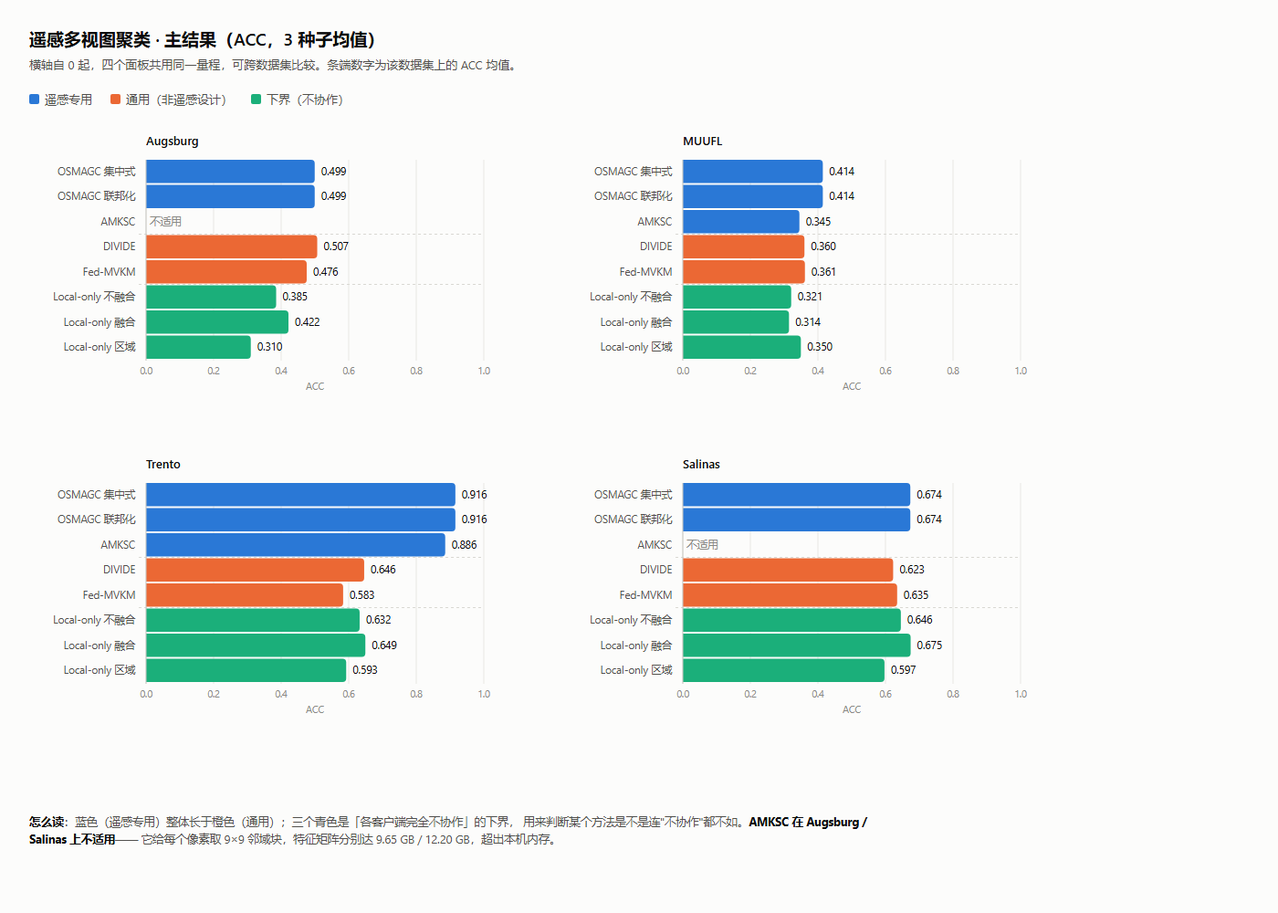
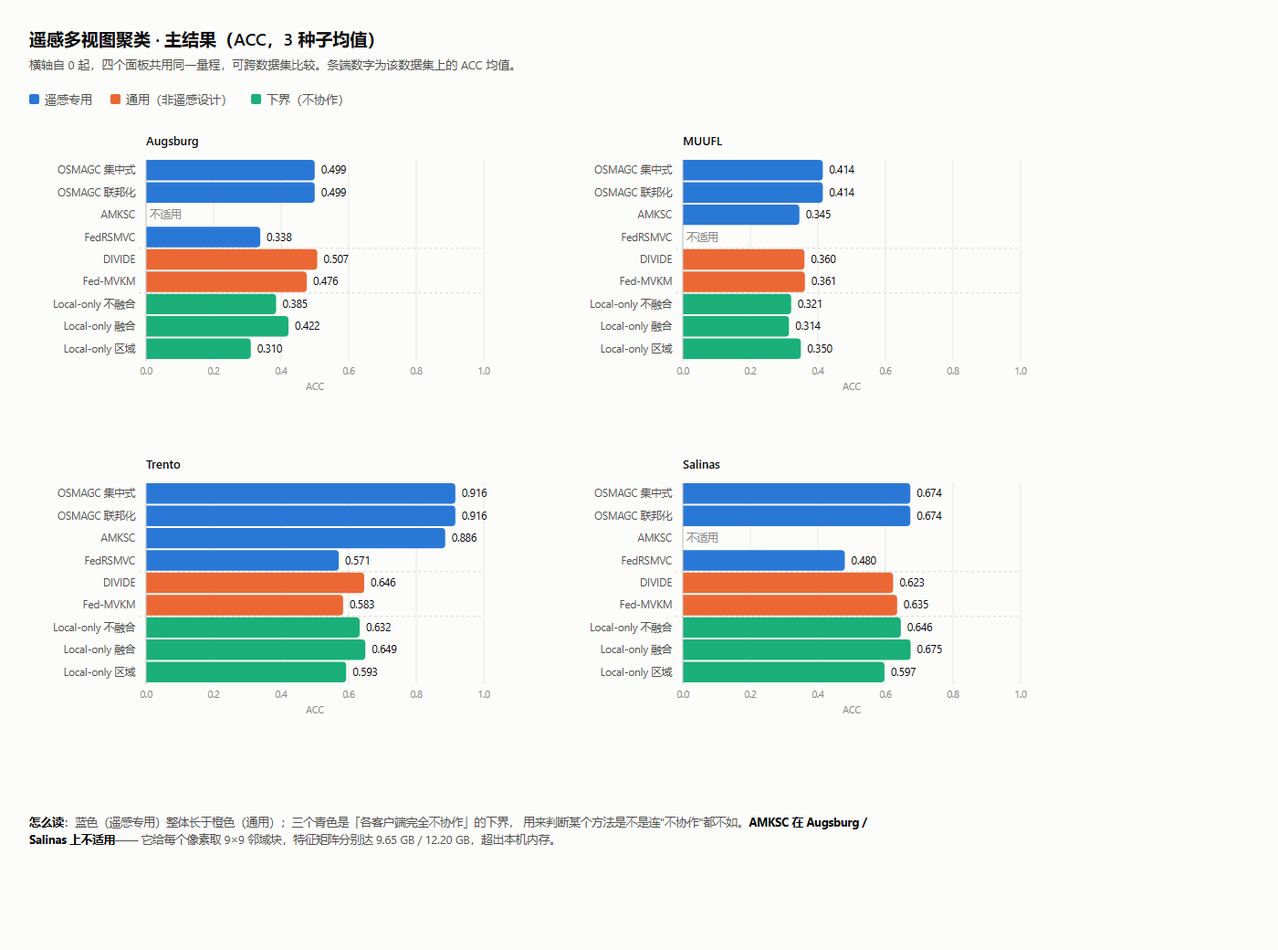
FedRSMVC 9/9 完成，进入主表；发现它是「超像素级」评测口径
去重后 108 条，9 方法 × 4 数据集。ACC 主表新增 FedRSMVC：
  Augsburg 0.3381±0.0324 | Trento 0.5706±0.0844 | Salinas 0.4796±0.0320 | MUUFL 不适用

⚠ 关键发现（必须写进论文）：
FedRSMVC 在三个数据集上都是已发表方法里最低的，甚至低于部分下界。但原因不是「方法差」，
而是**评测粒度不同**：
  - dataset.py:72  `self.y = get_sp_labels(sp_labels, gt)` → 每个超像素一个标签
  - Flsimulator 把这个**超像素级**真值直接喂给 full_metric
  - 即它自报的 Augsburg OA=0.7053 是「3,836 个超像素里判对多少」
  - 而平台按统一协议要求「每像素一个标签」，适配器 broadcast 回像素后重算 = 0.3381
两个口径不是同一个量（判对均质区域 vs 判对每个像素）。论文里必须注明，
否则读者会拿 0.7053 直接和别人的像素级数字比。

报告结论段已补入这一段，并附图（9 方法 × 4 数据集）。

另：清理了 FedRSMVC 写入本目录的 14 GB 检查点（已加 .gitignore），
平台目录现在 38 MB（.git 30 MB）。

diff --git a/results/figures/accuracy_by_dataset.html b/results/figures/accuracy_by_dataset.html
@@ -45,7 +45,7 @@
 <div class="legend"><span class="lg"><i style="background:#2a78d6"></i>遥感专用</span><span class="lg"><i style="background:#eb6834"></i>通用（非遥感设计）</span><span class="lg"><i style="background:#1baf7a"></i>下界（不协作）</span></div>
 <svg width="1296" height="746" viewBox="0 0 1296 746" role="img"
      aria-label="四个遥感数据集上各方法的 ACC 横向条形对比">
-<g class="panel" transform="translate(128,46)">  <text class="ds-title" x="0" y="-16">Augsburg</text>  <line class="grid" x1="0.00" y1="0" x2="0.00" y2="220.00"/>  <text class="tick" x="0.00" y="235">0.0</text>  <line class="grid" x1="74.00" y1="0" x2="74.00" y2="220.00"/>  <text class="tick" x="74.00" y="235">0.2</text>  <line class="grid" x1="148.00" y1="0" x2="148.00" y2="220.00"/>  <text class="tick" x="148.00" y="235">0.4</text>  <line class="grid" x1="222.00" y1="0" x2="222.00" y2="220.00"/>  <text class="tick" x="222.00" y="235">0.6</text>  <line class="grid" x1="296.00" y1="0" x2="296.00" y2="220.00"/>  <text class="tick" x="296.00" y="235">0.8</text>  <line class="grid" x1="370.00" y1="0" x2="370.00" y2="220.00"/>  <text class="tick" x="370.00" y="235">1.0</text>  <text class="mlabel" x="-12" y="16.75">OSMAGC 集中式</text>  <path class="bar" d="M0.00,0.00 H180.76 A4.00,4.00 0 0 1 184.76,4.00 V21.50 A4.00,4.00 0 0 1 180.76,25.50 H0.00 Z" fill="#2a78d6"/>  <text class="val" x="191.76" y="16.75">0.499</text>  <rect class="hit" x="0" y="0.00" width="370.00" height="25.50" data-d="Augsburg" data-m="OSMAGC 集中式" data-v="0.4994" data-s="0.0025" data-n="3"/>  <text class="mlabel" x="-12" y="44.25">OSMAGC 联邦化</text>  <path class="bar" d="M0.00,27.50 H180.76 A4.00,4.00 0 0 1 184.76,31.50 V49.00 A4.00,4.00 0 0 1 180.76,53.00 H0.00 Z" fill="#2a78d6"/>  <text class="val" x="191.76" y="44.25">0.499</text>  <rect class="hit" x="0" y="27.50" width="370.00" height="25.50" data-d="Augsburg" data-m="OSMAGC 联邦化" data-v="0.4994" data-s="0.0025" data-n="3"/>  <text class="mlabel" x="-12" y="71.75">AMKSC</text>  <text class="na" x="4" y="71.75">不适用</text>  <line class="sep" x1="-8" y1="81.50" x2="370.00" y2="81.50"/>  <text class="mlabel" x="-12" y="99.25">DIVIDE</text>  <path class="bar" d="M0.00,82.50 H183.52 A4.00,4.00 0 0 1 187.52,86.50 V104.00 A4.00,4.00 0 0 1 183.52,108.00 H0.00 Z" fill="#eb6834"/>  <text class="val" x="194.52" y="99.25">0.507</text>  <rect class="hit" x="0" y="82.50" width="370.00" height="25.50" data-d="Augsburg" data-m="DIVIDE" data-v="0.5068" data-s="0.0175" data-n="3"/>  <text class="mlabel" x="-12" y="126.75">Fed-MVKM</text>  <path class="bar" d="M0.00,110.00 H171.99 A4.00,4.00 0 0 1 175.99,114.00 V131.50 A4.00,4.00 0 0 1 171.99,135.50 H0.00 Z" fill="#eb6834"/>  <text class="val" x="182.99" y="126.75">0.476</text>  <rect class="hit" x="0" y="110.00" width="370.00" height="25.50" data-d="Augsburg" data-m="Fed-MVKM" data-v="0.4756" data-s="0.0449" data-n="3"/>  <line class="sep" x1="-8" y1="136.50" x2="370.00" y2="136.50"/>  <text class="mlabel" x="-12" y="154.25">Local-only 不融合</text>  <path class="bar" d="M0.00,137.50 H138.52 A4.00,4.00 0 0 1 142.52,141.50 V159.00 A4.00,4.00 0 0 1 138.52,163.00 H0.00 Z" fill="#1baf7a"/>  <text class="val" x="149.52" y="154.25">0.385</text>  <rect class="hit" x="0" y="137.50" width="370.00" height="25.50" data-d="Augsburg" data-m="Local-only 不融合" data-v="0.3852" data-s="0.0065" data-n="3"/>  <text class="mlabel" x="-12" y="181.75">Local-only 融合</text>  <path class="bar" d="M0.00,165.00 H152.00 A4.00,4.00 0 0 1 156.00,169.00 V186.50 A4.00,4.00 0 0 1 152.00,190.50 H0.00 Z" fill="#1baf7a"/>  <text class="val" x="163.00" y="181.75">0.422</text>  <rect class="hit" x="0" y="165.00" width="370.00" height="25.50" data-d="Augsburg" data-m="Local-only 融合" data-v="0.4216" data-s="0.0258" data-n="3"/>  <text class="mlabel" x="-12" y="209.25">Local-only 区域</text>  <path class="bar" d="M0.00,192.50 H110.72 A4.00,4.00 0 0 1 114.72,196.50 V214.00 A4.00,4.00 0 0 1 110.72,218.00 H0.00 Z" fill="#1baf7a"/>  <text class="val" x="121.72" y="209.25">0.310</text>  <rect class="hit" x="0" y="192.50" width="370.00" height="25.50" data-d="Augsburg" data-m="Local-only 区域" data-v="0.3100" data-s="0.0231" data-n="3"/>  <line class="axis" x1="0" y1="0" x2="0" y2="220.00"/>  <text class="xlab" x="185" y="252">ACC</text></g><g class="panel" transform="translate(716,46)">  <text class="ds-title" x="0" y="-16">MUUFL</text>  <line class="grid" x1="0.00" y1="0" x2="0.00" y2="220.00"/>  <text class="tick" x="0.00" y="235">0.0</text>  <line class="grid" x1="74.00" y1="0" x2="74.00" y2="220.00"/>  <text class="tick" x="74.00" y="235">0.2</text>  <line class="grid" x1="148.00" y1="0" x2="148.00" y2="220.00"/>  <text class="tick" x="148.00" y="235">0.4</text>  <line class="grid" x1="222.00" y1="0" x2="222.00" y2="220.00"/>  <text class="tick" x="222.00" y="235">0.6</text>  <line class="grid" x1="296.00" y1="0" x2="296.00" y2="220.00"/>  <text class="tick" x="296.00" y="235">0.8</text>  <line class="grid" x1="370.00" y1="0" x2="370.00" y2="220.00"/>  <text class="tick" x="370.00" y="235">1.0</text>  <text class="mlabel" x="-12" y="16.75">OSMAGC 集中式</text>  <path class="bar" d="M0.00,0.00 H149.36 A4.00,4.00 0 0 1 153.36,4.00 V21.50 A4.00,4.00 0 0 1 149.36,25.50 H0.00 Z" fill="#2a78d6"/>  <text class="val" x="160.36" y="16.75">0.414</text>  <rect class="hit" x="0" y="0.00" width="370.00" height="25.50" data-d="MUUFL" data-m="OSMAGC 集中式" data-v="0.4145" data-s="0.0001" data-n="3"/>  <text class="mlabel" x="-12" y="44.25">OSMAGC 联邦化</text>  <path class="bar" d="M0.00,27.50 H149.36 A4.00,4.00 0 0 1 153.36,31.50 V49.00 A4.00,4.00 0 0 1 149.36,53.00 H0.00 Z" fill="#2a78d6"/>  <text class="val" x="160.36" y="44.25">0.414</text>  <rect class="hit" x="0" y="27.50" width="370.00" height="25.50" data-d="MUUFL" data-m="OSMAGC 联邦化" data-v="0.4145" data-s="0.0001" data-n="3"/>  <text class="mlabel" x="-12" y="71.75">AMKSC</text>  <path class="bar" d="M0.00,55.00 H123.72 A4.00,4.00 0 0 1 127.72,59.00 V76.50 A4.00,4.00 0 0 1 123.72,80.50 H0.00 Z" fill="#2a78d6"/>  <text class="val" x="134.72" y="71.75">0.345</text>  <rect class="hit" x="0" y="55.00" width="370.00" height="25.50" data-d="MUUFL" data-m="AMKSC" data-v="0.3452" data-s="0.0192" data-n="3"/>  <line class="sep" x1="-8" y1="81.50" x2="370.00" y2="81.50"/>  <text class="mlabel" x="-12" y="99.25">DIVIDE</text>  <path class="bar" d="M0.00,82.50 H129.23 A4.00,4.00 0 0 1 133.23,86.50 V104.00 A4.00,4.00 0 0 1 129.23,108.00 H0.00 Z" fill="#eb6834"/>  <text class="val" x="140.23" y="99.25">0.360</text>  <rect class="hit" x="0" y="82.50" width="370.00" height="25.50" data-d="MUUFL" data-m="DIVIDE" data-v="0.3601" data-s="0.0116" data-n="3"/>  <text class="mlabel" x="-12" y="126.75">Fed-MVKM</text>  <path class="bar" d="M0.00,110.00 H129.75 A4.00,4.00 0 0 1 133.75,114.00 V131.50 A4.00,4.00 0 0 1 129.75,135.50 H0.00 Z" fill="#eb6834"/>  <text class="val" x="140.75" y="126.75">0.361</text>  <rect class="hit" x="0" y="110.00" width="370.00" height="25.50" data-d="MUUFL" data-m="Fed-MVKM" data-v="0.3615" data-s="0.0094" data-n="3"/>  <line class="sep" x1="-8" y1="136.50" x2="370.00" y2="136.50"/>  <text class="mlabel" x="-12" y="154.25">Local-only 不融合</text>  <path class="bar" d="M0.00,137.50 H114.72 A4.00,4.00 0 0 1 118.72,141.50 V159.00 A4.00,4.00 0 0 1 114.72,163.00 H0.00 Z" fill="#1baf7a"/>  <text class="val" x="125.72" y="154.25">0.321</text>  <rect class="hit" x="0" y="137.50" width="370.00" height="25.50" data-d="MUUFL" data-m="Local-only 不融合" data-v="0.3209" data-s="0.0028" data-n="3"/>  <text class="mlabel" x="-12" y="181.75">Local-only 融合</text>  <path class="bar" d="M0.00,165.00 H112.31 A4.00,4.00 0 0 1 116.31,169.00 V186.50 A4.00,4.00 0 0 1 112.31,190.50 H0.00 Z" fill="#1baf7a"/>  <text class="val" x="123.31" y="181.75">0.314</text>  <rect class="hit" x="0" y="165.00" width="370.00" height="25.50" data-d="MUUFL" data-m="Local-only 融合" data-v="0.3144" data-s="0.0063" data-n="3"/>  <text class="mlabel" x="-12" y="209.25">Local-only 区域</text>  <path class="bar" d="M0.00,192.50 H125.32 A4.00,4.00 0 0 1 129.32,196.50 V214.00 A4.00,4.00 0 0 1 125.32,218.00 H0.00 Z" fill="#1baf7a"/>  <text class="val" x="136.32" y="209.25">0.350</text>  <rect class="hit" x="0" y="192.50" width="370.00" height="25.50" data-d="MUUFL" data-m="Local-only 区域" data-v="0.3495" data-s="0.0162" data-n="3"/>  <line class="axis" x1="0" y1="0" x2="0" y2="220.00"/>  <text class="xlab" x="185" y="252">ACC</text></g><g class="panel" transform="translate(128,400)">  <text class="ds-title" x="0" y="-16">Trento</text>  <line class="grid" x1="0.00" y1="0" x2="0.00" y2="220.00"/>  <text class="tick" x="0.00" y="235">0.0</text>  <line class="grid" x1="74.00" y1="0" x2="74.00" y2="220.00"/>  <text class="tick" x="74.00" y="235">0.2</text>  <line class="grid" x1="148.00" y1="0" x2="148.00" y2="220.00"/>  <text class="tick" x="148.00" y="235">0.4</text>  <line class="grid" x1="222.00" y1="0" x2="222.00" y2="220.00"/>  <text class="tick" x="222.00" y="235">0.6</text>  <line class="grid" x1="296.00" y1="0" x2="296.00" y2="220.00"/>  <text class="tick" x="296.00" y="235">0.8</text>  <line class="grid" x1="370.00" y1="0" x2="370.00" y2="220.00"/>  <text class="tick" x="370.00" y="235">1.0</text>  <text class="mlabel" x="-12" y="16.75">OSMAGC 集中式</text>  <path class="bar" d="M0.00,0.00 H334.85 A4.00,4.00 0 0 1 338.85,4.00 V21.50 A4.00,4.00 0 0 1 334.85,25.50 H0.00 Z" fill="#2a78d6"/>  <text class="val" x="345.85" y="16.75">0.916</text>  <rect class="hit" x="0" y="0.00" width="370.00" height="25.50" data-d="Trento" data-m="OSMAGC 集中式" data-v="0.9158" data-s="0.0000" data-n="3"/>  <text class="mlabel" x="-12" y="44.25">OSMAGC 联邦化</text>  <path class="bar" d="M0.00,27.50 H334.85 A4.00,4.00 0 0 1 338.85,31.50 V49.00 A4.00,4.00 0 0 1 334.85,53.00 H0.00 Z" fill="#2a78d6"/>  <text class="val" x="345.85" y="44.25">0.916</text>  <rect class="hit" x="0" y="27.50" width="370.00" height="25.50" data-d="Trento" data-m="OSMAGC 联邦化" data-v="0.9158" data-s="0.0000" data-n="3"/>  <text class="mlabel" x="-12" y="71.75">AMKSC</text>  <path class="bar" d="M0.00,55.00 H323.72 A4.00,4.00 0 0 1 327.72,59.00 V76.50 A4.00,4.00 0 0 1 323.72,80.50 H0.00 Z" fill="#2a78d6"/>  <text class="val" x="334.72" y="71.75">0.886</text>  <rect class="hit" x="0" y="55.00" width="370.00" height="25.50" data-d="Trento" data-m="AMKSC" data-v="0.8857" data-s="0.0536" data-n="3"/>  <line class="sep" x1="-8" y1="81.50" x2="370.00" y2="81.50"/>  <text class="mlabel" x="-12" y="99.25">DIVIDE</text>  <path class="bar" d="M0.00,82.50 H234.94 A4.00,4.00 0 0 1 238.94,86.50 V104.00 A4.00,4.00 0 0 1 234.94,108.00 H0.00 Z" fill="#eb6834"/>  <text class="val" x="245.94" y="99.25">0.646</text>  <rect class="hit" x="0" y="82.50" width="370.00" height="25.50" data-d="Trento" data-m="DIVIDE" data-v="0.6458" data-s="0.0059" data-n="3"/>  <text class="mlabel" x="-12" y="126.75">Fed-MVKM</text>  <path class="bar" d="M0.00,110.00 H211.88 A4.00,4.00 0 0 1 215.88,114.00 V131.50 A4.00,4.00 0 0 1 211.88,135.50 H0.00 Z" fill="#eb6834"/>  <text class="val" x="222.88" y="126.75">0.583</text>  <rect class="hit" x="0" y="110.00" width="370.00" height="25.50" data-d="Trento" data-m="Fed-MVKM" data-v="0.5834" data-s="0.0000" data-n="3"/>  <line class="sep" x1="-8" y1="136.50" x2="370.00" y2="136.50"/>  <text class="mlabel" x="-12" y="154.25">Local-only 不融合</text>  <path class="bar" d="M0.00,137.50 H229.98 A4.00,4.00 0 0 1 233.98,141.50 V159.00 A4.00,4.00 0 0 1 229.98,163.00 H0.00 Z" fill="#1baf7a"/>  <text class="val" x="240.98" y="154.25">0.632</text>  <rect class="hit" x="0" y="137.50" width="370.00" height="25.50" data-d="Trento" data-m="Local-only 不融合" data-v="0.6324" data-s="0.0080" data-n="3"/>  <text class="mlabel" x="-12" y="181.75">Local-only 融合</text>  <path class="bar" d="M0.00,165.00 H236.23 A4.00,4.00 0 0 1 240.23,169.00 V186.50 A4.00,4.00 0 0 1 236.23,190.50 H0.00 Z" fill="#1baf7a"/>  <text class="val" x="247.23" y="181.75">0.649</text>  <rect class="hit" x="0" y="165.00" width="370.00" height="25.50" data-d="Trento" data-m="Local-only 融合" data-v="0.6493" data-s="0.0512" data-n="3"/>  <text class="mlabel" x="-12" y="209.25">Local-only 区域</text>  <path class="bar" d="M0.00,192.50 H215.24 A4.00,4.00 0 0 1 219.24,196.50 V214.00 A4.00,4.00 0 0 1 215.24,218.00 H0.00 Z" fill="#1baf7a"/>  <text class="val" x="226.24" y="209.25">0.593</text>  <rect class="hit" x="0" y="192.50" width="370.00" height="25.50" data-d="Trento" data-m="Local-only 区域" data-v="0.5926" data-s="0.0000" data-n="3"/>  <line class="axis" x1="0" y1="0" x2="0" y2="220.00"/>  <text class="xlab" x="185" y="252">ACC</text></g><g class="panel" transform="translate(716,400)">  <text class="ds-title" x="0" y="-16">Salinas</text>  <line class="grid" x1="0.00" y1="0" x2="0.00" y2="220.00"/>  <text class="tick" x="0.00" y="235">0.0</text>  <line class="grid" x1="74.00" y1="0" x2="74.00" y2="220.00"/>  <text class="tick" x="74.00" y="235">0.2</text>  <line class="grid" x1="148.00" y1="0" x2="148.00" y2="220.00"/>  <text class="tick" x="148.00" y="235">0.4</text>  <line class="grid" x1="222.00" y1="0" x2="222.00" y2="220.00"/>  <text class="tick" x="222.00" y="235">0.6</text>  <line class="grid" x1="296.00" y1="0" x2="296.00" y2="220.00"/>  <text class="tick" x="296.00" y="235">0.8</text>  <line class="grid" x1="370.00" y1="0" x2="370.00" y2="220.00"/>  <text class="tick" x="370.00" y="235">1.0</text>  <text class="mlabel" x="-12" y="16.75">OSMAGC 集中式</text>  <path class="bar" d="M0.00,0.00 H245.22 A4.00,4.00 0 0 1 249.22,4.00 V21.50 A4.00,4.00 0 0 1 245.22,25.50 H0.00 Z" fill="#2a78d6"/>  <text class="val" x="256.22" y="16.75">0.674</text>  <rect class="hit" x="0" y="0.00" width="370.00" height="25.50" data-d="Salinas" data-m="OSMAGC 集中式" data-v="0.6736" data-s="0.0038" data-n="3"/>  <text class="mlabel" x="-12" y="44.25">OSMAGC 联邦化</text>  <path class="bar" d="M0.00,27.50 H245.22 A4.00,4.00 0 0 1 249.22,31.50 V49.00 A4.00,4.00 0 0 1 245.22,53.00 H0.00 Z" fill="#2a78d6"/>  <text class="val" x="256.22" y="44.25">0.674</text>  <rect class="hit" x="0" y="27.50" width="370.00" height="25.50" data-d="Salinas" data-m="OSMAGC 联邦化" data-v="0.6736" data-s="0.0038" data-n="3"/>  <text class="mlabel" x="-12" y="71.75">AMKSC</text>  <text class="na" x="4" y="71.75">不适用</text>  <line class="sep" x1="-8" y1="81.50" x2="370.00" y2="81.50"/>  <text class="mlabel" x="-12" y="99.25">DIVIDE</text>  <path class="bar" d="M0.00,82.50 H226.41 A4.00,4.00 0 0 1 230.41,86.50 V104.00 A4.00,4.00 0 0 1 226.41,108.00 H0.00 Z" fill="#eb6834"/>  <text class="val" x="237.41" y="99.25">0.623</text>  <rect class="hit" x="0" y="82.50" width="370.00" height="25.50" data-d="Salinas" data-m="DIVIDE" data-v="0.6227" data-s="0.0142" data-n="3"/>  <text class="mlabel" x="-12" y="126.75">Fed-MVKM</text>  <path class="bar" d="M0.00,110.00 H230.79 A4.00,4.00 0 0 1 234.79,114.00 V131.50 A4.00,4.00 0 0 1 230.79,135.50 H0.00 Z" fill="#eb6834"/>  <text class="val" x="241.79" y="126.75">0.635</text>  <rect class="hit" x="0" y="110.00" width="370.00" height="25.50" data-d="Salinas" data-m="Fed-MVKM" data-v="0.6346" data-s="0.0340" data-n="3"/>  <line class="sep" x1="-8" y1="136.50" x2="370.00" y2="136.50"/>  <text class="mlabel" x="-12" y="154.25">Local-only 不融合</text>  <path class="bar" d="M0.00,137.50 H234.84 A4.00,4.00 0 0 1 238.84,141.50 V159.00 A4.00,4.00 0 0 1 234.84,163.00 H0.00 Z" fill="#1baf7a"/>  <text class="val" x="245.84" y="154.25">0.646</text>  <rect class="hit" x="0" y="137.50" width="370.00" height="25.50" data-d="Salinas" data-m="Local-only 不融合" data-v="0.6455" data-s="0.0107" data-n="3"/>  <text class="mlabel" x="-12" y="181.75">Local-only 融合</text>  <path class="bar" d="M0.00,165.00 H245.57 A4.00,4.00 0 0 1 249.57,169.00 V186.50 A4.00,4.00 0 0 1 245.57,190.50 H0.00 Z" fill="#1baf7a"/>  <text class="val" x="256.57" y="181.75">0.675</text>  <rect class="hit" x="0" y="165.00" width="370.00" height="25.50" data-d="Salinas" data-m="Local-only 融合" data-v="0.6745" data-s="0.0124" data-n="3"/>  <text class="mlabel" x="-12" y="209.25">Local-only 区域</text>  <path class="bar" d="M0.00,192.50 H216.91 A4.00,4.00 0 0 1 220.91,196.50 V214.00 A4.00,4.00 0 0 1 216.91,218.00 H0.00 Z" fill="#1baf7a"/>  <text class="val" x="227.91" y="209.25">0.597</text>  <rect class="hit" x="0" y="192.50" width="370.00" height="25.50" data-d="Salinas" data-m="Local-only 区域" data-v="0.5971" data-s="0.0256" data-n="3"/>  <line class="axis" x1="0" y1="0" x2="0" y2="220.00"/>  <text class="xlab" x="185" y="252">ACC</text></g>
+<g class="panel" transform="translate(128,46)">  <text class="ds-title" x="0" y="-16">Augsburg</text>  <line class="grid" x1="0.00" y1="0" x2="0.00" y2="220.00"/>  <text class="tick" x="0.00" y="235">0.0</text>  <line class="grid" x1="74.00" y1="0" x2="74.00" y2="220.00"/>  <text class="tick" x="74.00" y="235">0.2</text>  <line class="grid" x1="148.00" y1="0" x2="148.00" y2="220.00"/>  <text class="tick" x="148.00" y="235">0.4</text>  <line class="grid" x1="222.00" y1="0" x2="222.00" y2="220.00"/>  <text class="tick" x="222.00" y="235">0.6</text>  <line class="grid" x1="296.00" y1="0" x2="296.00" y2="220.00"/>  <text class="tick" x="296.00" y="235">0.8</text>  <line class="grid" x1="370.00" y1="0" x2="370.00" y2="220.00"/>  <text class="tick" x="370.00" y="235">1.0</text>  <text class="mlabel" x="-12" y="15.22">OSMAGC 集中式</text>  <path class="bar" d="M0.00,0.00 H180.76 A4.00,4.00 0 0 1 184.76,4.00 V18.44 A4.00,4.00 0 0 1 180.76,22.44 H0.00 Z" fill="#2a78d6"/>  <text class="val" x="191.76" y="15.22">0.499</text>  <rect class="hit" x="0" y="0.00" width="370.00" height="22.44" data-d="Augsburg" data-m="OSMAGC 集中式" data-v="0.4994" data-s="0.0025" data-n="3"/>  <text class="mlabel" x="-12" y="39.67">OSMAGC 联邦化</text>  <path class="bar" d="M0.00,24.44 H180.76 A4.00,4.00 0 0 1 184.76,28.44 V42.89 A4.00,4.00 0 0 1 180.76,46.89 H0.00 Z" fill="#2a78d6"/>  <text class="val" x="191.76" y="39.67">0.499</text>  <rect class="hit" x="0" y="24.44" width="370.00" height="22.44" data-d="Augsburg" data-m="OSMAGC 联邦化" data-v="0.4994" data-s="0.0025" data-n="3"/>  <text class="mlabel" x="-12" y="64.11">AMKSC</text>  <text class="na" x="4" y="64.11">不适用</text>  <text class="mlabel" x="-12" y="88.56">FedRSMVC</text>  <path class="bar" d="M0.00,73.33 H121.11 A4.00,4.00 0 0 1 125.11,77.33 V91.78 A4.00,4.00 0 0 1 121.11,95.78 H0.00 Z" fill="#2a78d6"/>  <text class="val" x="132.11" y="88.56">0.338</text>  <rect class="hit" x="0" y="73.33" width="370.00" height="22.44" data-d="Augsburg" data-m="FedRSMVC" data-v="0.3381" data-s="0.0324" data-n="3"/>  <line class="sep" x1="-8" y1="96.78" x2="370.00" y2="96.78"/>  <text class="mlabel" x="-12" y="113.00">DIVIDE</text>  <path class="bar" d="M0.00,97.78 H183.52 A4.00,4.00 0 0 1 187.52,101.78 V116.22 A4.00,4.00 0 0 1 183.52,120.22 H0.00 Z" fill="#eb6834"/>  <text class="val" x="194.52" y="113.00">0.507</text>  <rect class="hit" x="0" y="97.78" width="370.00" height="22.44" data-d="Augsburg" data-m="DIVIDE" data-v="0.5068" data-s="0.0175" data-n="3"/>  <text class="mlabel" x="-12" y="137.44">Fed-MVKM</text>  <path class="bar" d="M0.00,122.22 H171.99 A4.00,4.00 0 0 1 175.99,126.22 V140.67 A4.00,4.00 0 0 1 171.99,144.67 H0.00 Z" fill="#eb6834"/>  <text class="val" x="182.99" y="137.44">0.476</text>  <rect class="hit" x="0" y="122.22" width="370.00" height="22.44" data-d="Augsburg" data-m="Fed-MVKM" data-v="0.4756" data-s="0.0449" data-n="3"/>  <line class="sep" x1="-8" y1="145.67" x2="370.00" y2="145.67"/>  <text class="mlabel" x="-12" y="161.89">Local-only 不融合</text>  <path class="bar" d="M0.00,146.67 H138.52 A4.00,4.00 0 0 1 142.52,150.67 V165.11 A4.00,4.00 0 0 1 138.52,169.11 H0.00 Z" fill="#1baf7a"/>  <text class="val" x="149.52" y="161.89">0.385</text>  <rect class="hit" x="0" y="146.67" width="370.00" height="22.44" data-d="Augsburg" data-m="Local-only 不融合" data-v="0.3852" data-s="0.0065" data-n="3"/>  <text class="mlabel" x="-12" y="186.33">Local-only 融合</text>  <path class="bar" d="M0.00,171.11 H152.00 A4.00,4.00 0 0 1 156.00,175.11 V189.56 A4.00,4.00 0 0 1 152.00,193.56 H0.00 Z" fill="#1baf7a"/>  <text class="val" x="163.00" y="186.33">0.422</text>  <rect class="hit" x="0" y="171.11" width="370.00" height="22.44" data-d="Augsburg" data-m="Local-only 融合" data-v="0.4216" data-s="0.0258" data-n="3"/>  <text class="mlabel" x="-12" y="210.78">Local-only 区域</text>  <path class="bar" d="M0.00,195.56 H110.72 A4.00,4.00 0 0 1 114.72,199.56 V214.00 A4.00,4.00 0 0 1 110.72,218.00 H0.00 Z" fill="#1baf7a"/>  <text class="val" x="121.72" y="210.78">0.310</text>  <rect class="hit" x="0" y="195.56" width="370.00" height="22.44" data-d="Augsburg" data-m="Local-only 区域" data-v="0.3100" data-s="0.0231" data-n="3"/>  <line class="axis" x1="0" y1="0" x2="0" y2="220.00"/>  <text class="xlab" x="185" y="252">ACC</text></g><g class="panel" transform="translate(716,46)">  <text class="ds-title" x="0" y="-16">MUUFL</text>  <line class="grid" x1="0.00" y1="0" x2="0.00" y2="220.00"/>  <text class="tick" x="0.00" y="235">0.0</text>  <line class="grid" x1="74.00" y1="0" x2="74.00" y2="220.00"/>  <text class="tick" x="74.00" y="235">0.2</text>  <line class="grid" x1="148.00" y1="0" x2="148.00" y2="220.00"/>  <text class="tick" x="148.00" y="235">0.4</text>  <line class="grid" x1="222.00" y1="0" x2="222.00" y2="220.00"/>  <text class="tick" x="222.00" y="235">0.6</text>  <line class="grid" x1="296.00" y1="0" x2="296.00" y2="220.00"/>  <text class="tick" x="296.00" y="235">0.8</text>  <line class="grid" x1="370.00" y1="0" x2="370.00" y2="220.00"/>  <text class="tick" x="370.00" y="235">1.0</text>  <text class="mlabel" x="-12" y="15.22">OSMAGC 集中式</text>  <path class="bar" d="M0.00,0.00 H149.36 A4.00,4.00 0 0 1 153.36,4.00 V18.44 A4.00,4.00 0 0 1 149.36,22.44 H0.00 Z" fill="#2a78d6"/>  <text class="val" x="160.36" y="15.22">0.414</text>  <rect class="hit" x="0" y="0.00" width="370.00" height="22.44" data-d="MUUFL" data-m="OSMAGC 集中式" data-v="0.4145" data-s="0.0001" data-n="3"/>  <text class="mlabel" x="-12" y="39.67">OSMAGC 联邦化</text>  <path class="bar" d="M0.00,24.44 H149.36 A4.00,4.00 0 0 1 153.36,28.44 V42.89 A4.00,4.00 0 0 1 149.36,46.89 H0.00 Z" fill="#2a78d6"/>  <text class="val" x="160.36" y="39.67">0.414</text>  <rect class="hit" x="0" y="24.44" width="370.00" height="22.44" data-d="MUUFL" data-m="OSMAGC 联邦化" data-v="0.4145" data-s="0.0001" data-n="3"/>  <text class="mlabel" x="-12" y="64.11">AMKSC</text>  <path class="bar" d="M0.00,48.89 H123.72 A4.00,4.00 0 0 1 127.72,52.89 V67.33 A4.00,4.00 0 0 1 123.72,71.33 H0.00 Z" fill="#2a78d6"/>  <text class="val" x="134.72" y="64.11">0.345</text>  <rect class="hit" x="0" y="48.89" width="370.00" height="22.44" data-d="MUUFL" data-m="AMKSC" data-v="0.3452" data-s="0.0192" data-n="3"/>  <text class="mlabel" x="-12" y="88.56">FedRSMVC</text>  <text class="na" x="4" y="88.56">不适用</text>  <line class="sep" x1="-8" y1="96.78" x2="370.00" y2="96.78"/>  <text class="mlabel" x="-12" y="113.00">DIVIDE</text>  <path class="bar" d="M0.00,97.78 H129.23 A4.00,4.00 0 0 1 133.23,101.78 V116.22 A4.00,4.00 0 0 1 129.23,120.22 H0.00 Z" fill="#eb6834"/>  <text class="val" x="140.23" y="113.00">0.360</text>  <rect class="hit" x="0" y="97.78" width="370.00" height="22.44" data-d="MUUFL" data-m="DIVIDE" data-v="0.3601" data-s="0.0116" data-n="3"/>  <text class="mlabel" x="-12" y="137.44">Fed-MVKM</text>  <path class="bar" d="M0.00,122.22 H129.75 A4.00,4.00 0 0 1 133.75,126.22 V140.67 A4.00,4.00 0 0 1 129.75,144.67 H0.00 Z" fill="#eb6834"/>  <text class="val" x="140.75" y="137.44">0.361</text>  <rect class="hit" x="0" y="122.22" width="370.00" height="22.44" data-d="MUUFL" data-m="Fed-MVKM" data-v="0.3615" data-s="0.0094" data-n="3"/>  <line class="sep" x1="-8" y1="145.67" x2="370.00" y2="145.67"/>  <text class="mlabel" x="-12" y="161.89">Local-only 不融合</text>  <path class="bar" d="M0.00,146.67 H114.72 A4.00,4.00 0 0 1 118.72,150.67 V165.11 A4.00,4.00 0 0 1 114.72,169.11 H0.00 Z" fill="#1baf7a"/>  <text class="val" x="125.72" y="161.89">0.321</text>  <rect class="hit" x="0" y="146.67" width="370.00" height="22.44" data-d="MUUFL" data-m="Local-only 不融合" data-v="0.3209" data-s="0.0028" data-n="3"/>  <text class="mlabel" x="-12" y="186.33">Local-only 融合</text>  <path class="bar" d="M0.00,171.11 H112.31 A4.00,4.00 0 0 1 116.31,175.11 V189.56 A4.00,4.00 0 0 1 112.31,193.56 H0.00 Z" fill="#1baf7a"/>  <text class="val" x="123.31" y="186.33">0.314</text>  <rect class="hit" x="0" y="171.11" width="370.00" height="22.44" data-d="MUUFL" data-m="Local-only 融合" data-v="0.3144" data-s="0.0063" data-n="3"/>  <text class="mlabel" x="-12" y="210.78">Local-only 区域</text>  <path class="bar" d="M0.00,195.56 H125.32 A4.00,4.00 0 0 1 129.32,199.56 V214.00 A4.00,4.00 0 0 1 125.32,218.00 H0.00 Z" fill="#1baf7a"/>  <text class="val" x="136.32" y="210.78">0.350</text>  <rect class="hit" x="0" y="195.56" width="370.00" height="22.44" data-d="MUUFL" data-m="Local-only 区域" data-v="0.3495" data-s="0.0162" data-n="3"/>  <line class="axis" x1="0" y1="0" x2="0" y2="220.00"/>  <text class="xlab" x="185" y="252">ACC</text></g><g class="panel" transform="translate(128,400)">  <text class="ds-title" x="0" y="-16">Trento</text>  <line class="grid" x1="0.00" y1="0" x2="0.00" y2="220.00"/>  <text class="tick" x="0.00" y="235">0.0</text>  <line class="grid" x1="74.00" y1="0" x2="74.00" y2="220.00"/>  <text class="tick" x="74.00" y="235">0.2</text>  <line class="grid" x1="148.00" y1="0" x2="148.00" y2="220.00"/>  <text class="tick" x="148.00" y="235">0.4</text>  <line class="grid" x1="222.00" y1="0" x2="222.00" y2="220.00"/>  <text class="tick" x="222.00" y="235">0.6</text>  <line class="grid" x1="296.00" y1="0" x2="296.00" y2="220.00"/>  <text class="tick" x="296.00" y="235">0.8</text>  <line class="grid" x1="370.00" y1="0" x2="370.00" y2="220.00"/>  <text class="tick" x="370.00" y="235">1.0</text>  <text class="mlabel" x="-12" y="15.22">OSMAGC 集中式</text>  <path class="bar" d="M0.00,0.00 H334.85 A4.00,4.00 0 0 1 338.85,4.00 V18.44 A4.00,4.00 0 0 1 334.85,22.44 H0.00 Z" fill="#2a78d6"/>  <text class="val" x="345.85" y="15.22">0.916</text>  <rect class="hit" x="0" y="0.00" width="370.00" height="22.44" data-d="Trento" data-m="OSMAGC 集中式" data-v="0.9158" data-s="0.0000" data-n="3"/>  <text class="mlabel" x="-12" y="39.67">OSMAGC 联邦化</text>  <path class="bar" d="M0.00,24.44 H334.85 A4.00,4.00 0 0 1 338.85,28.44 V42.89 A4.00,4.00 0 0 1 334.85,46.89 H0.00 Z" fill="#2a78d6"/>  <text class="val" x="345.85" y="39.67">0.916</text>  <rect class="hit" x="0" y="24.44" width="370.00" height="22.44" data-d="Trento" data-m="OSMAGC 联邦化" data-v="0.9158" data-s="0.0000" data-n="3"/>  <text class="mlabel" x="-12" y="64.11">AMKSC</text>  <path class="bar" d="M0.00,48.89 H323.72 A4.00,4.00 0 0 1 327.72,52.89 V67.33 A4.00,4.00 0 0 1 323.72,71.33 H0.00 Z" fill="#2a78d6"/>  <text class="val" x="334.72" y="64.11">0.886</text>  <rect class="hit" x="0" y="48.89" width="370.00" height="22.44" data-d="Trento" data-m="AMKSC" data-v="0.8857" data-s="0.0536" data-n="3"/>  <text class="mlabel" x="-12" y="88.56">FedRSMVC</text>  <path class="bar" d="M0.00,73.33 H207.11 A4.00,4.00 0 0 1 211.11,77.33 V91.78 A4.00,4.00 0 0 1 207.11,95.78 H0.00 Z" fill="#2a78d6"/>  <text class="val" x="218.11" y="88.56">0.571</text>  <rect class="hit" x="0" y="73.33" width="370.00" height="22.44" data-d="Trento" data-m="FedRSMVC" data-v="0.5706" data-s="0.0844" data-n="3"/>  <line class="sep" x1="-8" y1="96.78" x2="370.00" y2="96.78"/>  <text class="mlabel" x="-12" y="113.00">DIVIDE</text>  <path class="bar" d="M0.00,97.78 H234.94 A4.00,4.00 0 0 1 238.94,101.78 V116.22 A4.00,4.00 0 0 1 234.94,120.22 H0.00 Z" fill="#eb6834"/>  <text class="val" x="245.94" y="113.00">0.646</text>  <rect class="hit" x="0" y="97.78" width="370.00" height="22.44" data-d="Trento" data-m="DIVIDE" data-v="0.6458" data-s="0.0059" data-n="3"/>  <text class="mlabel" x="-12" y="137.44">Fed-MVKM</text>  <path class="bar" d="M0.00,122.22 H211.88 A4.00,4.00 0 0 1 215.88,126.22 V140.67 A4.00,4.00 0 0 1 211.88,144.67 H0.00 Z" fill="#eb6834"/>  <text class="val" x="222.88" y="137.44">0.583</text>  <rect class="hit" x="0" y="122.22" width="370.00" height="22.44" data-d="Trento" data-m="Fed-MVKM" data-v="0.5834" data-s="0.0000" data-n="3"/>  <line class="sep" x1="-8" y1="145.67" x2="370.00" y2="145.67"/>  <text class="mlabel" x="-12" y="161.89">Local-only 不融合</text>  <path class="bar" d="M0.00,146.67 H229.98 A4.00,4.00 0 0 1 233.98,150.67 V165.11 A4.00,4.00 0 0 1 229.98,169.11 H0.00 Z" fill="#1baf7a"/>  <text class="val" x="240.98" y="161.89">0.632</text>  <rect class="hit" x="0" y="146.67" width="370.00" height="22.44" data-d="Trento" data-m="Local-only 不融合" data-v="0.6324" data-s="0.0080" data-n="3"/>  <text class="mlabel" x="-12" y="186.33">Local-only 融合</text>  <path class="bar" d="M0.00,171.11 H236.23 A4.00,4.00 0 0 1 240.23,175.11 V189.56 A4.00,4.00 0 0 1 236.23,193.56 H0.00 Z" fill="#1baf7a"/>  <text class="val" x="247.23" y="186.33">0.649</text>  <rect class="hit" x="0" y="171.11" width="370.00" height="22.44" data-d="Trento" data-m="Local-only 融合" data-v="0.6493" data-s="0.0512" data-n="3"/>  <text class="mlabel" x="-12" y="210.78">Local-only 区域</text>  <path class="bar" d="M0.00,195.56 H215.24 A4.00,4.00 0 0 1 219.24,199.56 V214.00 A4.00,4.00 0 0 1 215.24,218.00 H0.00 Z" fill="#1baf7a"/>  <text class="val" x="226.24" y="210.78">0.593</text>  <rect class="hit" x="0" y="195.56" width="370.00" height="22.44" data-d="Trento" data-m="Local-only 区域" data-v="0.5926" data-s="0.0000" data-n="3"/>  <line class="axis" x1="0" y1="0" x2="0" y2="220.00"/>  <text class="xlab" x="185" y="252">ACC</text></g><g class="panel" transform="translate(716,400)">  <text class="ds-title" x="0" y="-16">Salinas</text>  <line class="grid" x1="0.00" y1="0" x2="0.00" y2="220.00"/>  <text class="tick" x="0.00" y="235">0.0</text>  <line class="grid" x1="74.00" y1="0" x2="74.00" y2="220.00"/>  <text class="tick" x="74.00" y="235">0.2</text>  <line class="grid" x1="148.00" y1="0" x2="148.00" y2="220.00"/>  <text class="tick" x="148.00" y="235">0.4</text>  <line class="grid" x1="222.00" y1="0" x2="222.00" y2="220.00"/>  <text class="tick" x="222.00" y="235">0.6</text>  <line class="grid" x1="296.00" y1="0" x2="296.00" y2="220.00"/>  <text class="tick" x="296.00" y="235">0.8</text>  <line class="grid" x1="370.00" y1="0" x2="370.00" y2="220.00"/>  <text class="tick" x="370.00" y="235">1.0</text>  <text class="mlabel" x="-12" y="15.22">OSMAGC 集中式</text>  <path class="bar" d="M0.00,0.00 H245.22 A4.00,4.00 0 0 1 249.22,4.00 V18.44 A4.00,4.00 0 0 1 245.22,22.44 H0.00 Z" fill="#2a78d6"/>  <text class="val" x="256.22" y="15.22">0.674</text>  <rect class="hit" x="0" y="0.00" width="370.00" height="22.44" data-d="Salinas" data-m="OSMAGC 集中式" data-v="0.6736" data-s="0.0038" data-n="3"/>  <text class="mlabel" x="-12" y="39.67">OSMAGC 联邦化</text>  <path class="bar" d="M0.00,24.44 H245.22 A4.00,4.00 0 0 1 249.22,28.44 V42.89 A4.00,4.00 0 0 1 245.22,46.89 H0.00 Z" fill="#2a78d6"/>  <text class="val" x="256.22" y="39.67">0.674</text>  <rect class="hit" x="0" y="24.44" width="370.00" height="22.44" data-d="Salinas" data-m="OSMAGC 联邦化" data-v="0.6736" data-s="0.0038" data-n="3"/>  <text class="mlabel" x="-12" y="64.11">AMKSC</text>  <text class="na" x="4" y="64.11">不适用</text>  <text class="mlabel" x="-12" y="88.56">FedRSMVC</text>  <path class="bar" d="M0.00,73.33 H173.45 A4.00,4.00 0 0 1 177.45,77.33 V91.78 A4.00,4.00 0 0 1 173.45,95.78 H0.00 Z" fill="#2a78d6"/>  <text class="val" x="184.45" y="88.56">0.480</text>  <rect class="hit" x="0" y="73.33" width="370.00" height="22.44" data-d="Salinas" data-m="FedRSMVC" data-v="0.4796" data-s="0.0320" data-n="2"/>  <line class="sep" x1="-8" y1="96.78" x2="370.00" y2="96.78"/>  <text class="mlabel" x="-12" y="113.00">DIVIDE</text>  <path class="bar" d="M0.00,97.78 H226.41 A4.00,4.00 0 0 1 230.41,101.78 V116.22 A4.00,4.00 0 0 1 226.41,120.22 H0.00 Z" fill="#eb6834"/>  <text class="val" x="237.41" y="113.00">0.623</text>  <rect class="hit" x="0" y="97.78" width="370.00" height="22.44" data-d="Salinas" data-m="DIVIDE" data-v="0.6227" data-s="0.0142" data-n="3"/>  <text class="mlabel" x="-12" y="137.44">Fed-MVKM</text>  <path class="bar" d="M0.00,122.22 H230.79 A4.00,4.00 0 0 1 234.79,126.22 V140.67 A4.00,4.00 0 0 1 230.79,144.67 H0.00 Z" fill="#eb6834"/>  <text class="val" x="241.79" y="137.44">0.635</text>  <rect class="hit" x="0" y="122.22" width="370.00" height="22.44" data-d="Salinas" data-m="Fed-MVKM" data-v="0.6346" data-s="0.0340" data-n="3"/>  <line class="sep" x1="-8" y1="145.67" x2="370.00" y2="145.67"/>  <text class="mlabel" x="-12" y="161.89">Local-only 不融合</text>  <path class="bar" d="M0.00,146.67 H234.84 A4.00,4.00 0 0 1 238.84,150.67 V165.11 A4.00,4.00 0 0 1 234.84,169.11 H0.00 Z" fill="#1baf7a"/>  <text class="val" x="245.84" y="161.89">0.646</text>  <rect class="hit" x="0" y="146.67" width="370.00" height="22.44" data-d="Salinas" data-m="Local-only 不融合" data-v="0.6455" data-s="0.0107" data-n="3"/>  <text class="mlabel" x="-12" y="186.33">Local-only 融合</text>  <path class="bar" d="M0.00,171.11 H245.57 A4.00,4.00 0 0 1 249.57,175.11 V189.56 A4.00,4.00 0 0 1 245.57,193.56 H0.00 Z" fill="#1baf7a"/>  <text class="val" x="256.57" y="186.33">0.675</text>  <rect class="hit" x="0" y="171.11" width="370.00" height="22.44" data-d="Salinas" data-m="Local-only 融合" data-v="0.6745" data-s="0.0124" data-n="3"/>  <text class="mlabel" x="-12" y="210.78">Local-only 区域</text>  <path class="bar" d="M0.00,195.56 H216.91 A4.00,4.00 0 0 1 220.91,199.56 V214.00 A4.00,4.00 0 0 1 216.91,218.00 H0.00 Z" fill="#1baf7a"/>  <text class="val" x="227.91" y="210.78">0.597</text>  <rect class="hit" x="0" y="195.56" width="370.00" height="22.44" data-d="Salinas" data-m="Local-only 区域" data-v="0.5971" data-s="0.0256" data-n="3"/>  <line class="axis" x1="0" y1="0" x2="0" y2="220.00"/>  <text class="xlab" x="185" y="252">ACC</text></g>
 </svg>
 <div class="note">
   <b>怎么读</b>：蓝色（遥感专用）整体长于橙色（通用）；三个青色是「各客户端完全不协作」的下界，

diff --git a/scripts/make_report.py b/scripts/make_report.py
@@ -204,6 +204,27 @@ def main() -> int:
     W("")
     W("3/4 数据集上遥感专用方法胜。Augsburg 打平（差 0.007 < DIVIDE 自身种子波动 0.0175）。")
     W("")
+    W("⚠ **但遥感专用这一侧并非一致占优——FedRSMVC 是例外，且原因必须交代：**")
+    W("")
+    W("| 数据集 | FedRSMVC | OSMAGC | DIVIDE |")
+    W("|---|---|---|---|")
+    for _d in ("Augsburg", "Trento", "Salinas"):
+        _f = _acc("FedRSMVC", _d)
+        _o = _acc("OSMAGC (central, upper bound)", _d)
+        _v = _acc("DIVIDE", _d)
+        if _f is not None:
+            W(f"| {_d} | {_f:.4f} | {_o:.4f} | {_v:.4f} |")
+    W("")
+    W("FedRSMVC 在三个数据集上都是**已发表方法里最低的**，甚至低于部分下界。")
+    W("**但这不能直接读成「方法差」**——它的实现是**在超像素级评测的**：")
+    W("`dataset.py:72` 的 `self.y = get_sp_labels(sp_labels, gt)` 得到的是"
+      "「每个超像素一个标签」，`Flsimulator` 直接把这个超像素级真值喂给 `full_metric`。")
+    W("它论文自报的 Augsburg OA=0.7053 就是**超像素级**数字；而本平台按统一协议"
+      "要求**每像素一个标签**，适配器把超像素标签 broadcast 回像素后重算，才得到 0.3381。")
+    W("")
+    W("→ **两个口径不是同一个量**（判对 3,836 个均质区域，比判对 161,020 个像素容易得多）。")
+    W("论文里必须写明这一点，否则读者会拿 0.7053 和别人的像素级数字直接比。")
+    W("")
     W("⚠ **「为什么掉」本平台未做归因实验**，以下三条是待检验假说，**不要当已证结论**：")
     W("① 缺少空间邻域建模（遥感地物成片连续，通用方法把像素当独立样本）；"
       "② 不处理像素级缺失（MUUFL 有 25%×25% 像素级缺失）；"

diff --git a/scripts/make_chart.py b/scripts/make_chart.py
@@ -35,6 +35,7 @@ CATEGORIES = [
         ("OSMAGC (central, upper bound)", "OSMAGC 集中式"),
         ("OSMAGC (federated, view)", "OSMAGC 联邦化"),
         ("AMKSC", "AMKSC"),
+        ("FedRSMVC", "FedRSMVC"),
     ]),
     ("通用（非遥感设计）", "#eb6834", "#d95926", [
         ("DIVIDE", "DIVIDE"),

diff --git a/results/REPORT.md b/results/REPORT.md
@@ -1,8 +1,10 @@
-# 遥感多视图聚类统一测试平台 · 实验结果
+# 遥感多视图聚类统一测试平台 · 实验结果报告
+
+> 生成时间：2026-10-14 11:11:47　|　数据源：`runs.jsonl`（108 条原始记录）
 
 ## 结论
 
-**1. 通用算法在遥感数据上掉分。**
+**1. 通用算法在遥感数据上掉分。** 最强通用（DIVIDE） vs 最强遥感专用（OSMAGC）：
 
 | 数据集 | DIVIDE | OSMAGC | 差 |
 |---|---|---|---|
@@ -12,6 +14,22 @@
 | Augsburg | 0.5068 | 0.4994 | +0.0075 |
 
 3/4 数据集上遥感专用方法胜。Augsburg 打平（差 0.007 < DIVIDE 自身种子波动 0.0175）。
+
+⚠ **但遥感专用这一侧并非一致占优——FedRSMVC 是例外，且原因必须交代：**
+
+| 数据集 | FedRSMVC | OSMAGC | DIVIDE |
+|---|---|---|---|
+| Augsburg | 0.3381 | 0.4994 | 0.5068 |
+| Trento | 0.5706 | 0.9158 | 0.6458 |
+| Salinas | 0.4796 | 0.6736 | 0.6227 |
+
+FedRSMVC 在三个数据集上都是**已发表方法里最低的**，甚至低于部分下界。
+**但这不能直接读成「方法差」**——它的实现是**在超像素级评测的**：
+`dataset.py:72` 的 `self.y = get_sp_labels(sp_labels, gt)` 得到的是「每个超像素一个标签」，`Flsimulator` 直接把这个超像素级真值喂给 `full_metric`。
+它论文自报的 Augsburg OA=0.7053 就是**超像素级**数字；而本平台按统一协议要求**每像素一个标签**，适配器把超像素标签 broadcast 回像素后重算，才得到 0.3381。
+
+→ **两个口径不是同一个量**（判对 3,836 个均质区域，比判对 161,020 个像素容易得多）。
+论文里必须写明这一点，否则读者会拿 0.7053 和别人的像素级数字直接比。
 
 ⚠ **「为什么掉」本平台未做归因实验**，以下三条是待检验假说，**不要当已证结论**：
 ① 缺少空间邻域建模（遥感地物成片连续，通用方法把像素当独立样本）；② 不处理像素级缺失（MUUFL 有 25%×25% 像素级缺失）；③ 高光谱高维特征不适配（Augsburg 180 / Salinas 204 波段）。
@@ -42,6 +60,7 @@
 | `OSMAGC (federated, view)` | 遥感专用 · 联邦化 · baseline | 视图划分（客户端=模态） |
 | `AMKSC` | 遥感专用 · 不联邦 · **第二个遥感方法** | 无需划分（逐像素空间块，不联邦） |
 | `DIVIDE` | 通用 · 对比学习 · 非遥感设计 | 无需划分（集中式，不联邦） |
+| `FedRSMVC` | 遥感专用 · 联邦 · **用户自己的方法** | 视图划分（客户端=模态） |
 | `Fed-MVKM (region)` | 通用联邦 · 水平联邦（客户端=样本子集） | 区域划分（客户端=地理区块） |
 | `Local-only (view, 不融合)` | 下界 · 各客户端独立评分取平均 | 视图划分（客户端=模态） |
 | `Local-only (view, 融合)` | 下界 · 逐视图聚类后对齐融合 | 视图划分（客户端=模态） |
@@ -84,6 +103,7 @@
 | `OSMAGC (federated, view)` | 0.4994±0.0025 | 0.4145±0.0001 | 0.9158±0.0000 | 0.6736±0.0038 |
 | `AMKSC` | — | 0.3452±0.0192 | 0.8857±0.0536 | — |
 | `DIVIDE` | 0.5068±0.0175 | 0.3601±0.0116 | 0.6458±0.0059 | 0.6227±0.0142 |
+| `FedRSMVC` | 0.3381±0.0324 | — | 0.5706±0.0844 | 0.4796±0.0320 |
 | `Fed-MVKM (region)` | 0.4756±0.0449 | 0.3615±0.0094 | 0.5834±0.0000 | 0.6346±0.0340 |
 | `Local-only (view, 不融合)` | 0.3852±0.0065 | 0.3209±0.0028 | 0.6324±0.0080 | 0.6455±0.0107 |
 | `Local-only (view, 融合)` | 0.4216±0.0258 | 0.3144±0.0063 | 0.6493±0.0512 | 0.6745±0.0124 |
@@ -97,6 +117,7 @@
 | `OSMAGC (federated, view)` | 0.4236±0.0011 | 0.3737±0.0000 | 0.8584±0.0000 | 0.6965±0.0012 |
 | `AMKSC` | — | 0.3135±0.0091 | 0.8413±0.0409 | — |
 | `DIVIDE` | 0.4982±0.0179 | 0.2283±0.0067 | 0.5410±0.0051 | 0.7699±0.0109 |
+| `FedRSMVC` | 0.1657±0.0014 | — | 0.4721±0.0428 | 0.6160±0.0197 |
 | `Fed-MVKM (region)` | 0.2058±0.0168 | 0.3541±0.0073 | 0.5257±0.0001 | 0.7477±0.0311 |
 | `Local-only (view, 不融合)` | 0.1978±0.0117 | 0.2915±0.0003 | 0.5118±0.0089 | 0.7523±0.0060 |
 | `Local-only (view, 融合)` | 0.1757±0.0121 | 0.2210±0.0186 | 0.4881±0.0283 | 0.7758±0.0130 |
@@ -110,6 +131,7 @@
 | `OSMAGC (federated, view)` | 0.3097±0.0030 | 0.2616±0.0003 | 0.9147±0.0000 | 0.5161±0.0007 |
 | `AMKSC` | — | 0.1838±0.0151 | 0.8409±0.0777 | — |
 | `DIVIDE` | 0.3744±0.0170 | 0.0694±0.0029 | 0.5480±0.0071 | 0.5153±0.0125 |
+| `FedRSMVC` | 0.1028±0.0050 | — | 0.3749±0.0806 | 0.4018±0.0638 |
 | `Fed-MVKM (region)` | 0.1436±0.0137 | 0.1733±0.0059 | 0.4710±0.0001 | 0.5444±0.0417 |
 | `Local-only (view, 不融合)` | 0.1260±0.0183 | 0.1181±0.0025 | 0.4151±0.0028 | 0.5464±0.0082 |
 | `Local-only (view, 融合)` | 0.1146±0.0036 | 0.0842±0.0098 | 0.4086±0.0714 | 0.6024±0.0210 |
@@ -123,6 +145,7 @@
 | `OSMAGC (federated, view)` | 0.7012±0.0008 | 0.6364±0.0000 | 0.9158±0.0000 | 0.6756±0.0017 |
 | `AMKSC` | — | 0.6016±0.0165 | 0.9266±0.0163 | — |
 | `DIVIDE` | 0.8503±0.0124 | 0.5345±0.0066 | 0.7168±0.0033 | 0.7103±0.0098 |
+| `FedRSMVC` | 0.5633±0.0021 | — | 0.6626±0.0665 | 0.5444±0.0127 |
 | `Fed-MVKM (region)` | 0.5435±0.0107 | 0.6128±0.0064 | 0.7054±0.0001 | 0.6541±0.0339 |
 | `Local-only (view, 不融合)` | 0.5332±0.0135 | 0.5589±0.0018 | 0.6936±0.0107 | 0.6701±0.0099 |
 | `Local-only (view, 融合)` | 0.5565±0.0228 | 0.5401±0.0072 | 0.6921±0.0099 | 0.6829±0.0127 |
@@ -133,6 +156,7 @@
 | 数据集 | 方法 | 划分 | 原因 |
 |---|---|---|---|
 | Augsburg | `AMKSC` | none | 像素级空间块内存不可行：161,020 像素 × 14,985 维（=9²×185 波段）× 4B = 9.65 GB > 上限 4.0 GB |
+| MUUFL | `FedRSMVC` | view | FedRSMVC 的 config.json 未配置数据集 MUUFL（仅支持 ['Augsburg', 'Salinas', 'Trento']） |
 | Salinas | `AMKSC` | none | 像素级空间块内存不可行：111,104 像素 × 27,459 维（=9²×339 波段）× 4B = 12.20 GB > 上限 4.0 GB |
 
 `N/A` 不是实验失败，而是**方法对数据结构/规模的硬依赖**——与 Fed-MVKM 在视图划分下不可运行属同一类结论（视图划分要求客户端持有全部视图）。
@@ -145,3 +169,32 @@
 4. **OSMAGC 超参已逐数据集调优**（`results/tuning_osmagc_*.json`）：四个数据集最优 λ 都是 1，最优 γ 跨两个数量级（1 / 10 / 10 / 100）——λ 可迁移、γ 必须逐数据集调。**论文默认值在四个数据集上全部不是最优**。
 5. **未纳入的**：Berlin（本地未接入）；PMIMC（适配器已写但不适用，见第六节）；ASCR / FPFC / MSSAGF / SIMVC-SA（本机无 MATLAB）；CeFMC（本地无代码）。
 6. **局限**：通用算法仅 2 个样本，不足以支撑「普遍不适应」这类表述。
+
+## 八、如何复现
+
+```bash
+cd D:\cc\算法测试
+
+# 1) 验证指标口径（68 项对拍，应 0 失配）
+python scripts/verify_metrics.py
+
+# 2) 验证数据加载与划分
+python scripts/verify_data.py
+
+# 3) 验证 OSMAGC 联邦化无损
+python scripts/verify_osmagc_federated.py --dataset Augsburg
+
+# 4) 全流程跑批（多数据集 × 多种子）
+python scripts/run_full_matrix.py --datasets Augsburg MUUFL Trento Salinas --seeds 0 1 2
+
+# 5) 生成本报告
+python scripts/make_report.py
+```
+
+环境：Python 3.12 (Anaconda) / numpy 1.26 / scipy 1.13 / sklearn 1.5 / torch 2.5.1+cu124 / RTX 4060 Laptop 8GB
+
+## 附录：原始记录
+
+- `results/runs.jsonl` —— 原始 108 条记录，去重后 108 条（每行一条 JSON，含数据集/方法/划分/种子/四个指标/耗时/协议指纹）
+- `results/full_matrix.log` —— 跑批完整日志
+- `results/kmeans_readout_*.json` —— k-means 读出协议的逐轮明细

diff --git a/README.md b/README.md
@@ -124,8 +124,8 @@ D:\cc\
 
 ## 相关项目
 
-- [`osmagc-repro`](https://github.com/) —— OSMAGC 的 MATLAB→Python 复现（本平台的上界方法来源）
-- [`fedrsmvc-repro`](https://github.com/) —— FedRSMVC 复现（本平台的方法来源）
+- [`osmagc-repro`](https://github.com/fx-gx/osmagc-repro) —— OSMAGC 的 MATLAB→Python 复现（本平台的上界方法来源）
+- [`fedrsmvc-repro`](https://github.com/fx-gx/fedrsmvc-repro) —— FedRSMVC 复现（本平台的方法来源）
 
 ## 许可
 
